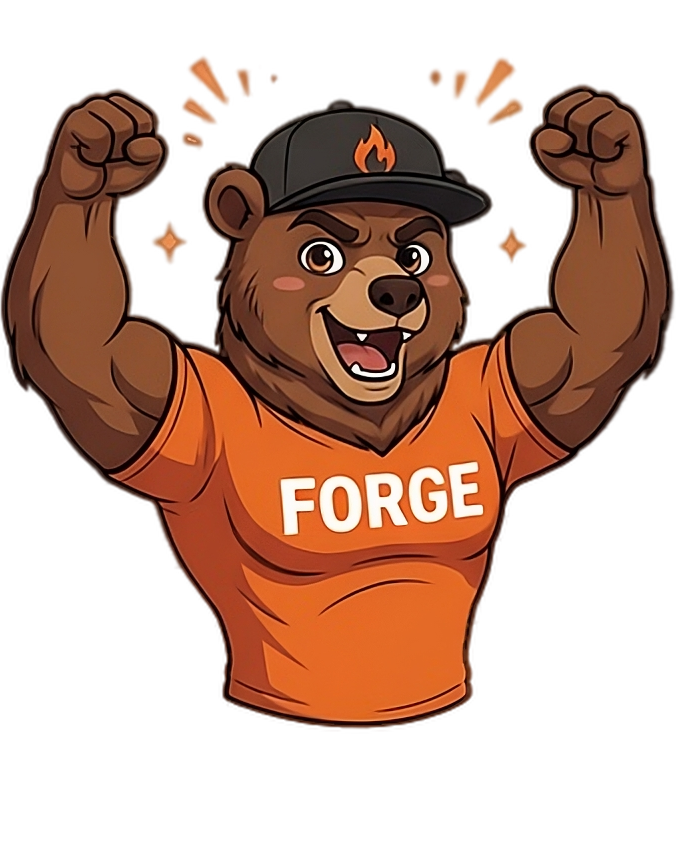
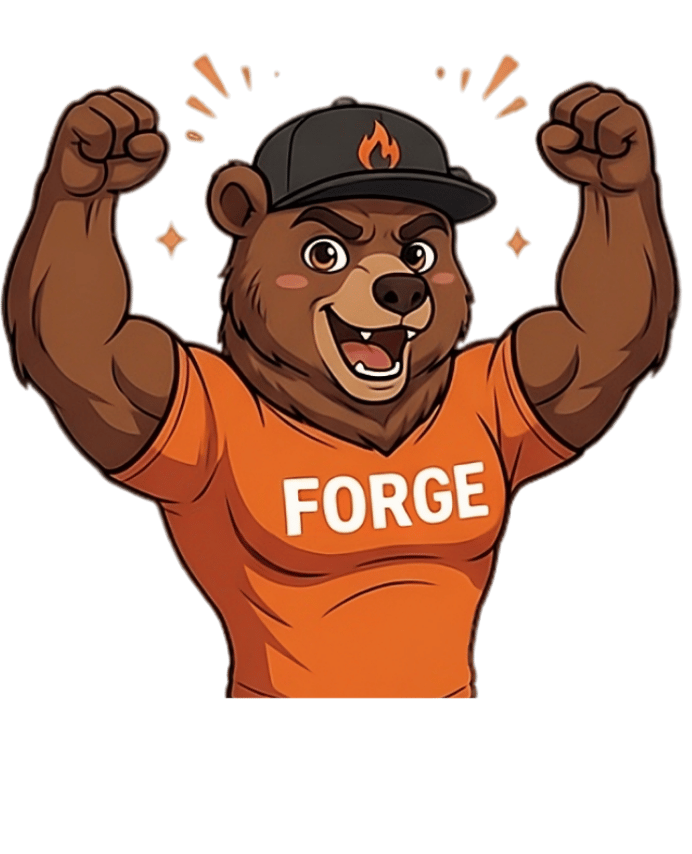
mascot changes

diff --git a/features/dashboard/components/TodayPlanCard.tsx b/features/dashboard/components/TodayPlanCard.tsx
@@ -93,8 +93,8 @@ export function TodayPlanCard({ isLoading, plannedWorkout, loggedWorkout, muscle
         size="lg"
         style={{
           position: 'absolute',
-          right: -10,
-          bottom: 22, // Overflow bottom slightly
+          right: -20,
+          bottom: 2, // Overflow bottom slightly
         }}
         imageStyle={{
           height: 178